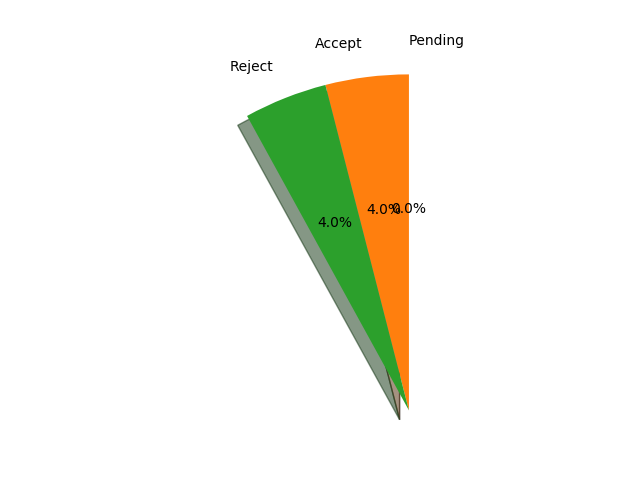
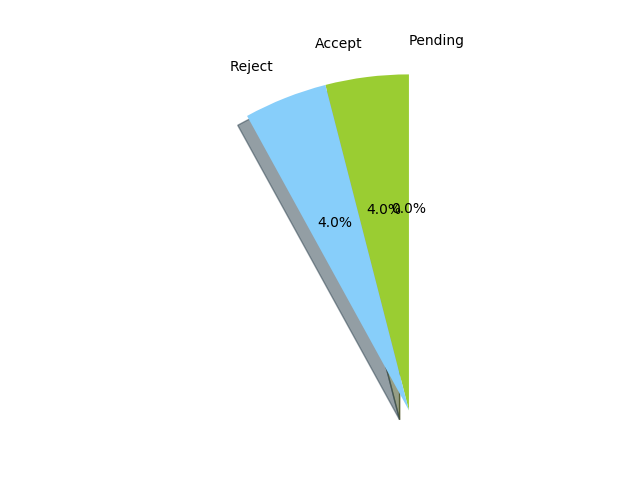
pie chart added

Changed region(s): [[0.375, 0.1562, 0.6562, 0.875]]

diff --git a/src/templates/employees/view_bills.html b/src/templates/employees/view_bills.html
@@ -1,28 +1,27 @@
 {% extends "base.html" %}
 {% block content %}
 
-    <div class="reset">
-        <a class="btn btn-warning" href="{{ url_for('employees.reset_password') }}">Reset Password</a>
-        <a class="btn btn-success" href="{{ url_for('bills.add_bill') }}"><span class="glyphicon glyphicon-plus"></span> Add Bill</a>
-    </div>
-    <h1>Bills</h1>
+    <h3>Bills <a class="btn btn-warning reset" href="{{ url_for('employees.reset_password') }}">Reset Password</a></h3>
+    <a class="pie-chart" href="{{ url }}">status<span class="glyphicon glyphicon-triangle-right"></span><img src="{{ url }}" alt="Image" width="450" height="150"></a>
     <label class="input-group-addon glyphicon glyphicon-sort" style="width: 50px;">
-            <select class="selectpicker glyphicon glyphicon-sort" onchange="location = this.value;">
-                <option>Sort</option>
-                <option value="{{ url_for('bills.view_bills', sort_type="default", filter_type=filter_type) }}">{{ "Default" }}</option>
-                <option value="{{ url_for('bills.view_bills', sort_type="bill_type", filter_type=filter_type) }}">{{ "Type" }}</option>
-                <option value="{{ url_for('bills.view_bills', sort_type="date_of_submission", filter_type=filter_type) }}">{{ "Submission Date" }}</option>
-            </select>
-        </label>
-        <label class="input-group-addon glyphicon glyphicon-filter" style="width: 50px;">
-            <select class="selectpicker" onchange="location = this.value;" aria-live="polite">
-                <option class="glyphicon glyphicon-filter">Filter</option>
-                <option value="{{ url_for('bills.view_bills', sort_type=sort_type, filter_type="all") }}">{{ "All" }}</option>
-                <option value="{{ url_for('bills.view_bills', sort_type=sort_type, filter_type="pending") }}">{{ "Pending" }}</option>
-                <option value="{{ url_for('bills.view_bills', sort_type=sort_type, filter_type="accept") }}">{{ "Accept" }}</option>
-                <option value="{{ url_for('bills.view_bills', sort_type=sort_type, filter_type="reject") }}">{{ "Reject" }}</option>
-            </select>
-        </label>
+        <select class="selectpicker glyphicon glyphicon-sort" onchange="location = this.value;">
+            <option>Sort</option>
+            <option value="{{ url_for('bills.view_bills', sort_type="default", filter_type=filter_type) }}">{{ "Default" }}</option>
+            <option value="{{ url_for('bills.view_bills', sort_type="bill_type", filter_type=filter_type) }}">{{ "Type" }}</option>
+            <option value="{{ url_for('bills.view_bills', sort_type="date_of_submission", filter_type=filter_type) }}">{{ "Submission Date" }}</option>
+        </select>
+    </label>
+    <label class="input-group-addon glyphicon glyphicon-filter" style="width: 50px;">
+        <select class="selectpicker" onchange="location = this.value;" aria-live="polite">
+            <option class="glyphicon glyphicon-filter">Filter</option>
+            <option value="{{ url_for('bills.view_bills', sort_type=sort_type, filter_type="all") }}">{{ "All" }}</option>
+            <option value="{{ url_for('bills.view_bills', sort_type=sort_type, filter_type="pending") }}">{{ "Pending" }}</option>
+            <option value="{{ url_for('bills.view_bills', sort_type=sort_type, filter_type="accept") }}">{{ "Accept" }}</option>
+            <option value="{{ url_for('bills.view_bills', sort_type=sort_type, filter_type="reject") }}">{{ "Reject" }}</option>
+        </select>
+    </label>
+    <br><a class="btn btn-success" href="{{ url_for('bills.add_bill') }}"><span class="glyphicon glyphicon-plus"></span> Add Bill</a>
+
     <table class="table table-hover">
         <thead>
         <tr>

diff --git a/src/templates/employees/plot.html b/src/templates/employees/plot.html
@@ -1,8 +1,18 @@
-<!DOCTYPE html>
-<html lang="en">
+{#<!DOCTYPE html>#}
+{#<html lang = "en">#}
+{#<head>#}
+{#    <meta charset="utf-8" />#}
+{#    <title>Random Pic</title>#}
+{#    <link rel="stylesheet" href="/src/static/css/styles.css">#}
+{#</head>#}
+{##}
+{#<body>#}
+{#    <img src="plot.png">#}
+{#    <img src="https://upload.wikimedia.org/wikipedia/commons/f/f9/Phoenicopterus_ruber_in_S%C3%A3o_Paulo_Zoo.jpg" height="42" width="42">#}
+{#</body>#}
+{#</html>#}
+{% extends "base.html" %}
+{% block content %}
+    <p><a href="{{ url }}"><img src="{{ url }}" alt="Image" width="100" height="100"></a></p>
 
-    <body>
-        <p>{{ name }}</p>
-        <img src="{{ url }}" alt="Chart" height="42" width="42">
-    </body>
-</html>
+{% endblock %}

diff --git a/src/templates/admins/admin_menu.html b/src/templates/admins/admin_menu.html
@@ -10,7 +10,6 @@
         <p><a class="btn btn-info" href="{{ url_for('billType.view_bill_types_admin', sort_type="default", filter_type="default" ) }}">View Bill Types</a></p><br>
         <p><a class="btn btn-info" href="{{ url_for('manager.view_managers_admin', sort_type="default", filter_type="default") }}">View Managers</a></p><br>
         <p><a class="btn btn-info" href="{{ url_for('employees.view_employees_admin', sort_type="default", filter_type="default") }}">View Employees</a></p><br>
-        <p><a class="btn btn-info" href="{{ url_for('director.view_directors_admin', sort_type="default", filter_type="default") }}">View Directors</a> </p>
     </center>
 
 {% endblock %}

diff --git a/src/templates/home.html b/src/templates/home.html
@@ -14,7 +14,6 @@
                 <a href="{{ url_for('employees.login_employee') }}"><button type="button" class="btn btn-light">Login Employee</button></a>
                 <a href="{{ url_for('manager.login_manager') }}"><button type="button" class="btn btn-light">Login Manager</button></a>
                 <a href="{{ url_for('director.login_director') }}"><button type="button" class="btn btn-light">Login Director</button></a>
-                <a href="{{ url_for('bills.view_employee_bill_pie') }}"><button type="button" class="btn btn-light">Show Graph</button> </a>
             </div>
         </div>
     </div>

diff --git a/src/static/css/styles.css b/src/static/css/styles.css
@@ -14,3 +14,6 @@ li{
 .add{
     float: right;
 }
+.pie-chart{
+    float: right;
+}

diff --git a/src/models/bills/views.py b/src/models/bills/views.py
@@ -32,15 +32,14 @@ def view_bills(sort_type, filter_type):
         sorted_bills = sorted(filter_bills, key=lambda k: k[sort_type])
     else:
         sorted_bills = filter_bills
-    return render_template('employees/view_bills.html', bills=sorted_bills, sort_type=sort_type, filter_type=filter_type)
+
+    url = view_employee_bill_pie(employee['_id'])
+    return render_template('employees/view_bills.html', bills=sorted_bills, sort_type=sort_type, filter_type=filter_type, url=url)
 
 
-@bill_blueprint.route('/billGraph/<path:path>', methods = ['GET', 'POST'])
-def view_employee_bill_pie(path):
-    # email = session['email']
-    # employee = Employee.get_by_employee_email(email)
-    # employee_id = employee['_id']
-    bills = Bill.all_bills_for_employee("11ccdad62179415a95aada3d5dc5f14c")
+def view_employee_bill_pie(employee_id):
+    bills = Bill.all_bills_for_employee(employee_id)
+
     accept = reject = pending = 0
     for bill in bills:
         if bill['status'] == 'accept':
@@ -49,18 +48,22 @@ def view_employee_bill_pie(path):
             reject = reject + 1
         else:
             pending = pending + 1
-
     labels = "Pending", "Accept", "Reject"
-    sizes = [pending/100, accept/100, reject/100]
-    # print(sizes)
+    sizes = [pending / 100, accept / 100, reject / 100]
+    colors = ['gold', 'yellowgreen', 'lightskyblue']
     fig1, ax1 = plt.subplots()
-    ax1.pie(sizes, labels=labels, autopct='%1.1f%%',
+    ax1.pie(sizes, labels=labels, colors=colors, autopct='%1.1f%%',
             shadow=True, startangle=90)
     ax1.axis('equal')
     plt.savefig('plot.png')
-    # plt.show()
-    return render_template('employees/plot.html', name='plot', url='plot.png')
 
+    upload_result = upload('plot.png')
+    url = upload_result['url']
+    thumbnail_url1, options = cloudinary_url(upload_result['public_id'], format="png", crop="fill", width=100,
+                                                     height=100)
+    # plt.show()
+    # return render_template('employees/plot.html', url=thumbnail_url1)
+    return url
 
 @bill_blueprint.route('/add', methods=['GET', 'POST'])
 @bills_decorators.requires_login

diff --git a/src/models/bills/bill.py b/src/models/bills/bill.py
@@ -2,6 +2,7 @@ import uuid
 from src.db.database import Database
 import src.models.bills.constants as billConstant
 import src.models.bills.error as billError
+import matplotlib.pyplot as plt
 
 
 class Bill(object):
@@ -110,3 +111,14 @@ class Bill(object):
             raise billError.ReimbursementAmountNotAdded("Add Reimbursement Amount")
         else:
             return True
+
+    def graph(accept, pending, reject):
+
+        labels = "Pending", "Accept", "Reject"
+        sizes = [pending / 100, accept / 100, reject / 100]
+        # print(sizes)
+        fig1, ax1 = plt.subplots()
+        ax1.pie(sizes, labels=labels, autopct='%1.1f%%',
+                shadow=True, startangle=90)
+        ax1.axis('equal')
+        plt.savefig('plot.png')
